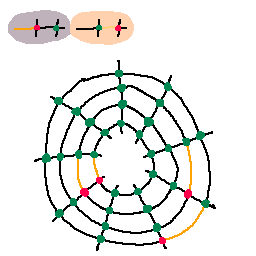
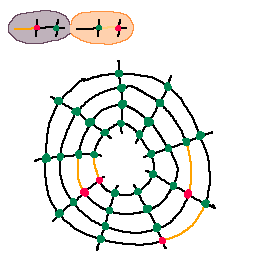
More aggressive png compression

diff --git a/src/field.rs b/src/field.rs
@@ -3,6 +3,7 @@ use crate::{
     math::{point::Point, rect::Rect, rgba8::Rgba8},
 };
 use data_encoding::BASE64;
+use image::ImageEncoder;
 use std::{
     io::Cursor,
     ops::{Index, IndexMut},
@@ -284,6 +285,32 @@ impl RgbaField {
 
     pub fn save(&self, path: impl AsRef<Path>) -> anyhow::Result<()> {
         self.to_imageio().save(path)?;
+        Ok(())
+    }
+
+    /// Uses more aggressive compression than save()
+    pub fn save_png(&self, path: impl AsRef<Path>) -> anyhow::Result<()> {
+        use image::{
+            ExtendedColorType,
+            codecs::png::{CompressionType, FilterType, PngEncoder},
+        };
+
+        let file = std::fs::File::create(path)?;
+        let writer = std::io::BufWriter::new(file);
+
+        // Create PngEncoder with best compression
+        let encoder =
+            PngEncoder::new_with_quality(writer, CompressionType::Best, FilterType::Adaptive);
+
+        // Encode the image buffer
+        let bytes = self.as_raw();
+        encoder.write_image(
+            bytes,
+            self.width() as u32,
+            self.height() as u32,
+            ExtendedColorType::Rgba8,
+        )?;
+
         Ok(())
     }
 

diff --git a/src/app.rs b/src/app.rs
@@ -847,7 +847,7 @@ impl EguiApp {
         warn!("Saving to path {:?}", path.as_ref().to_str());
         let material_map = self.view.world.material_map();
         let rgba_filed = material_map_effects(material_map, Rgba8::TRANSPARENT);
-        if let Err(err) = rgba_filed.save(path) {
+        if let Err(err) = rgba_filed.save_png(path) {
             warn!("Failed to save with error {err}");
         }
     }
